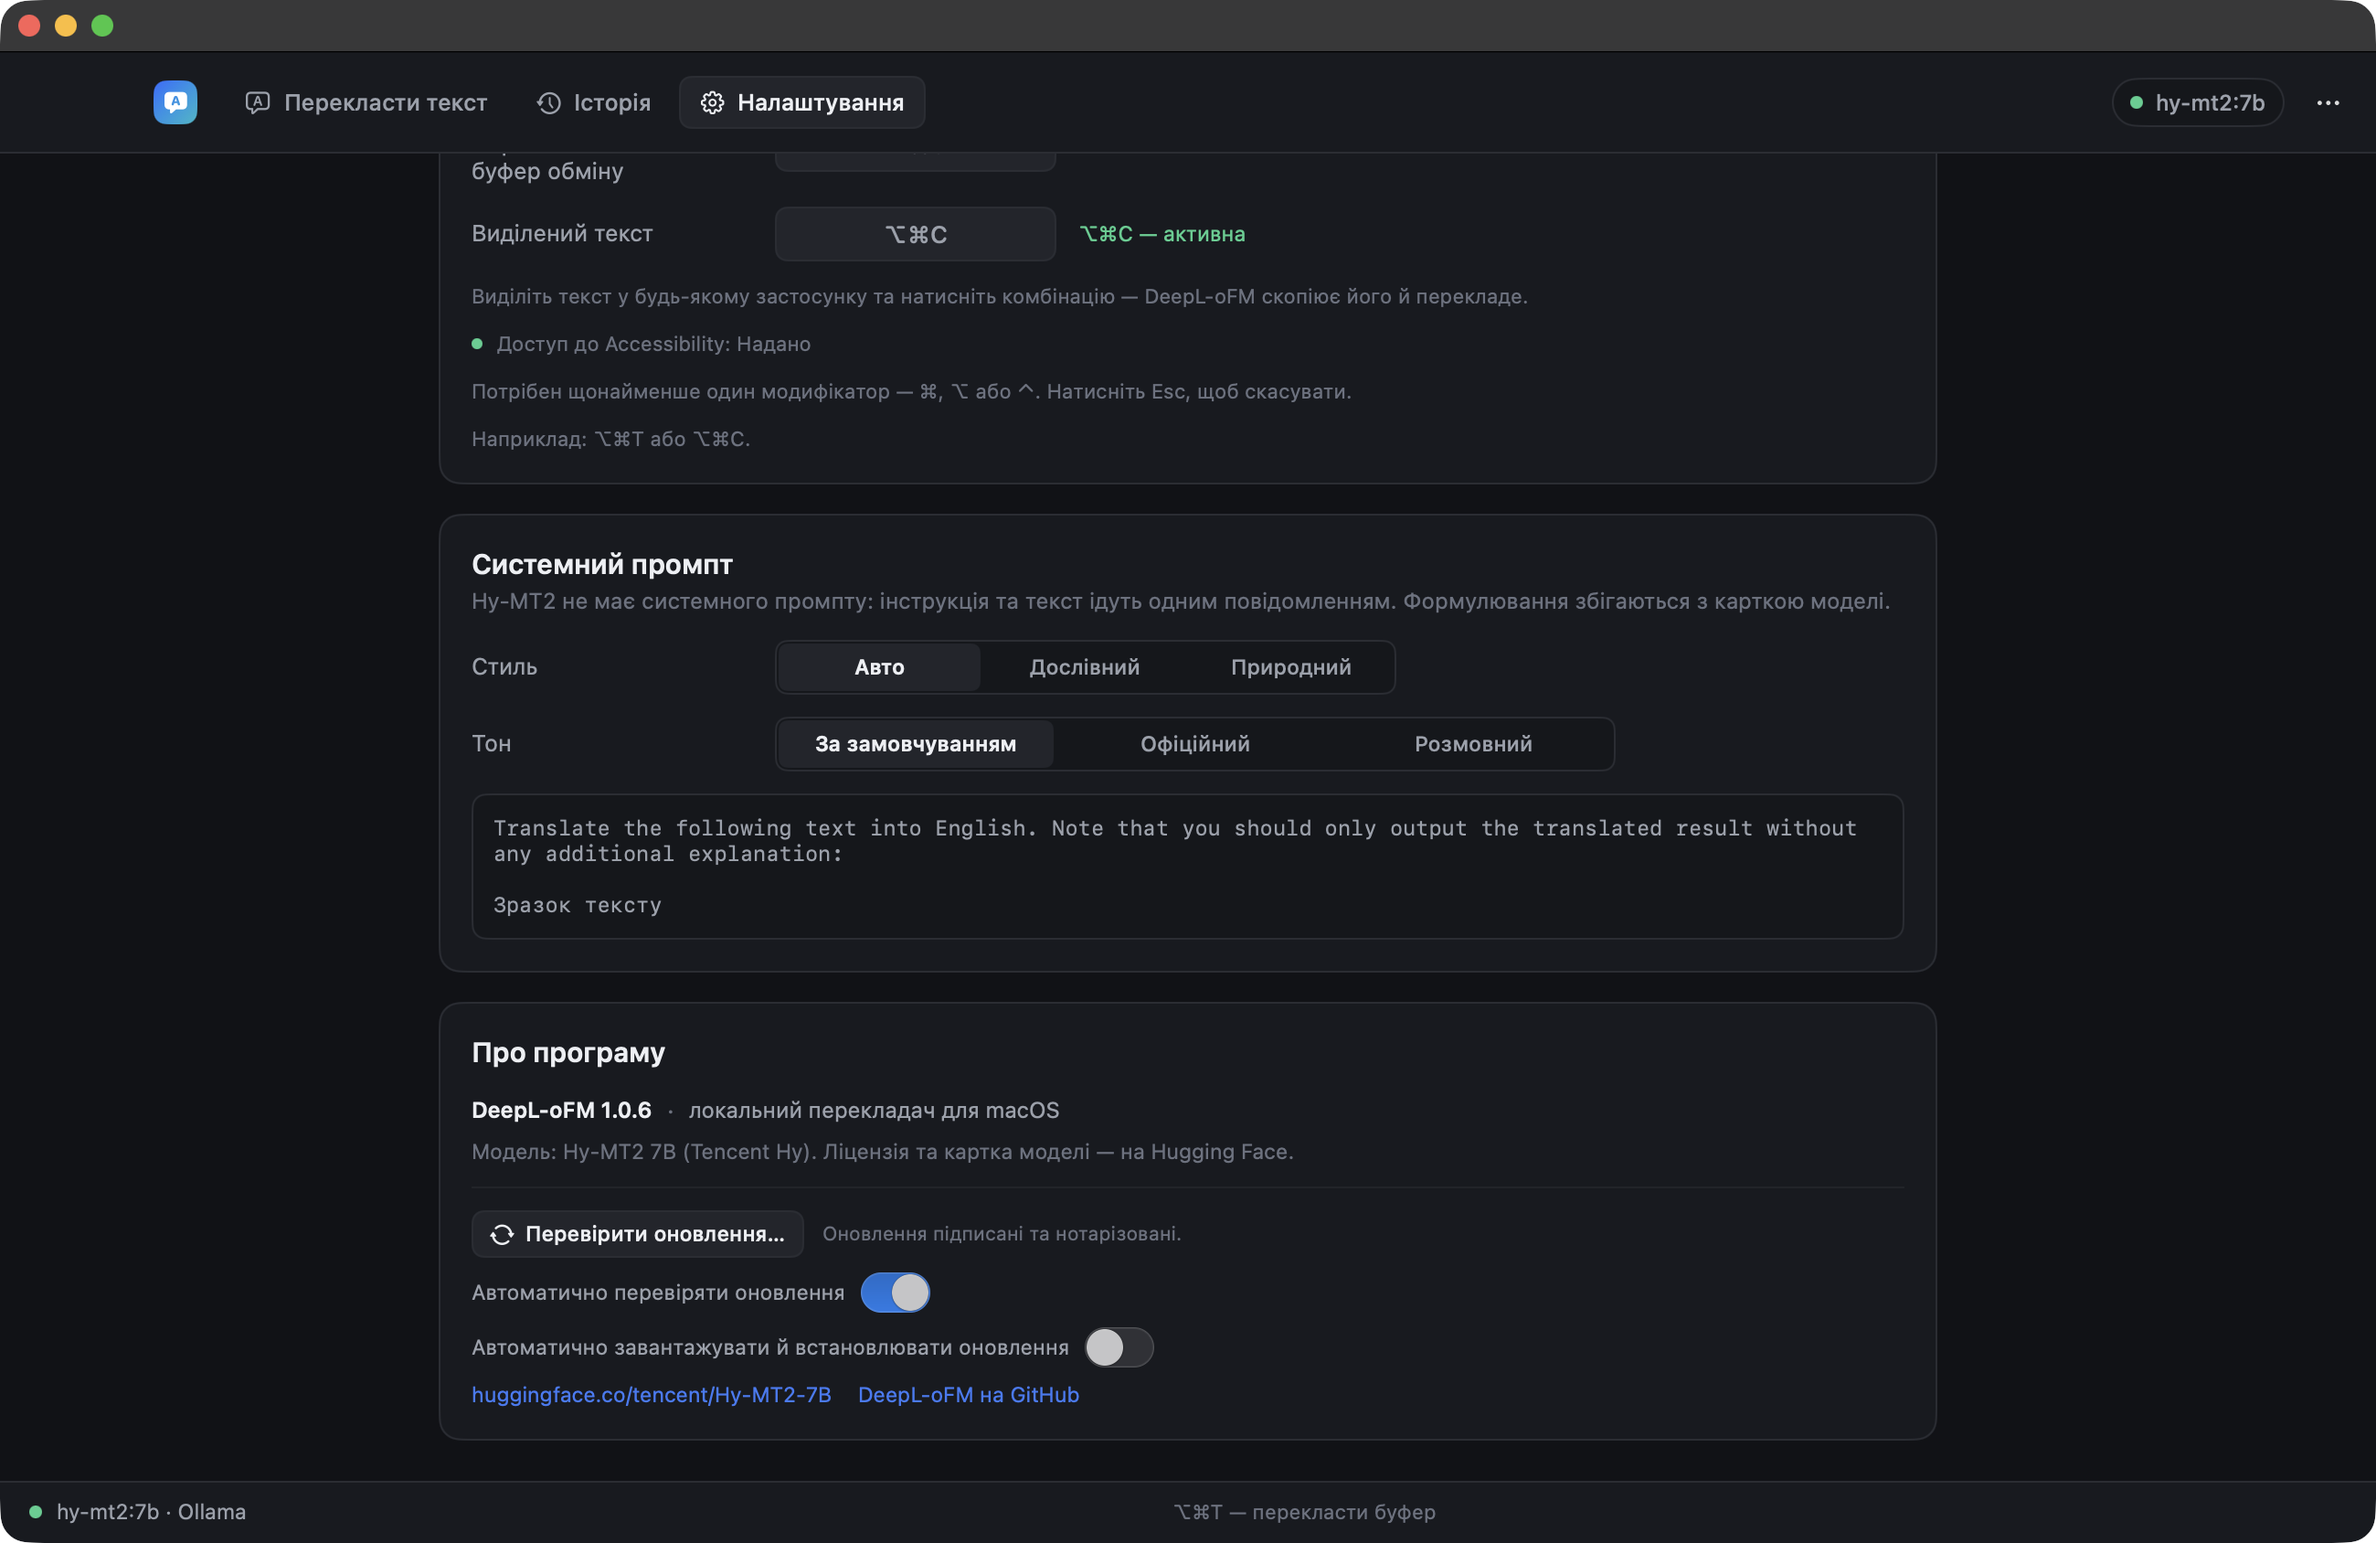
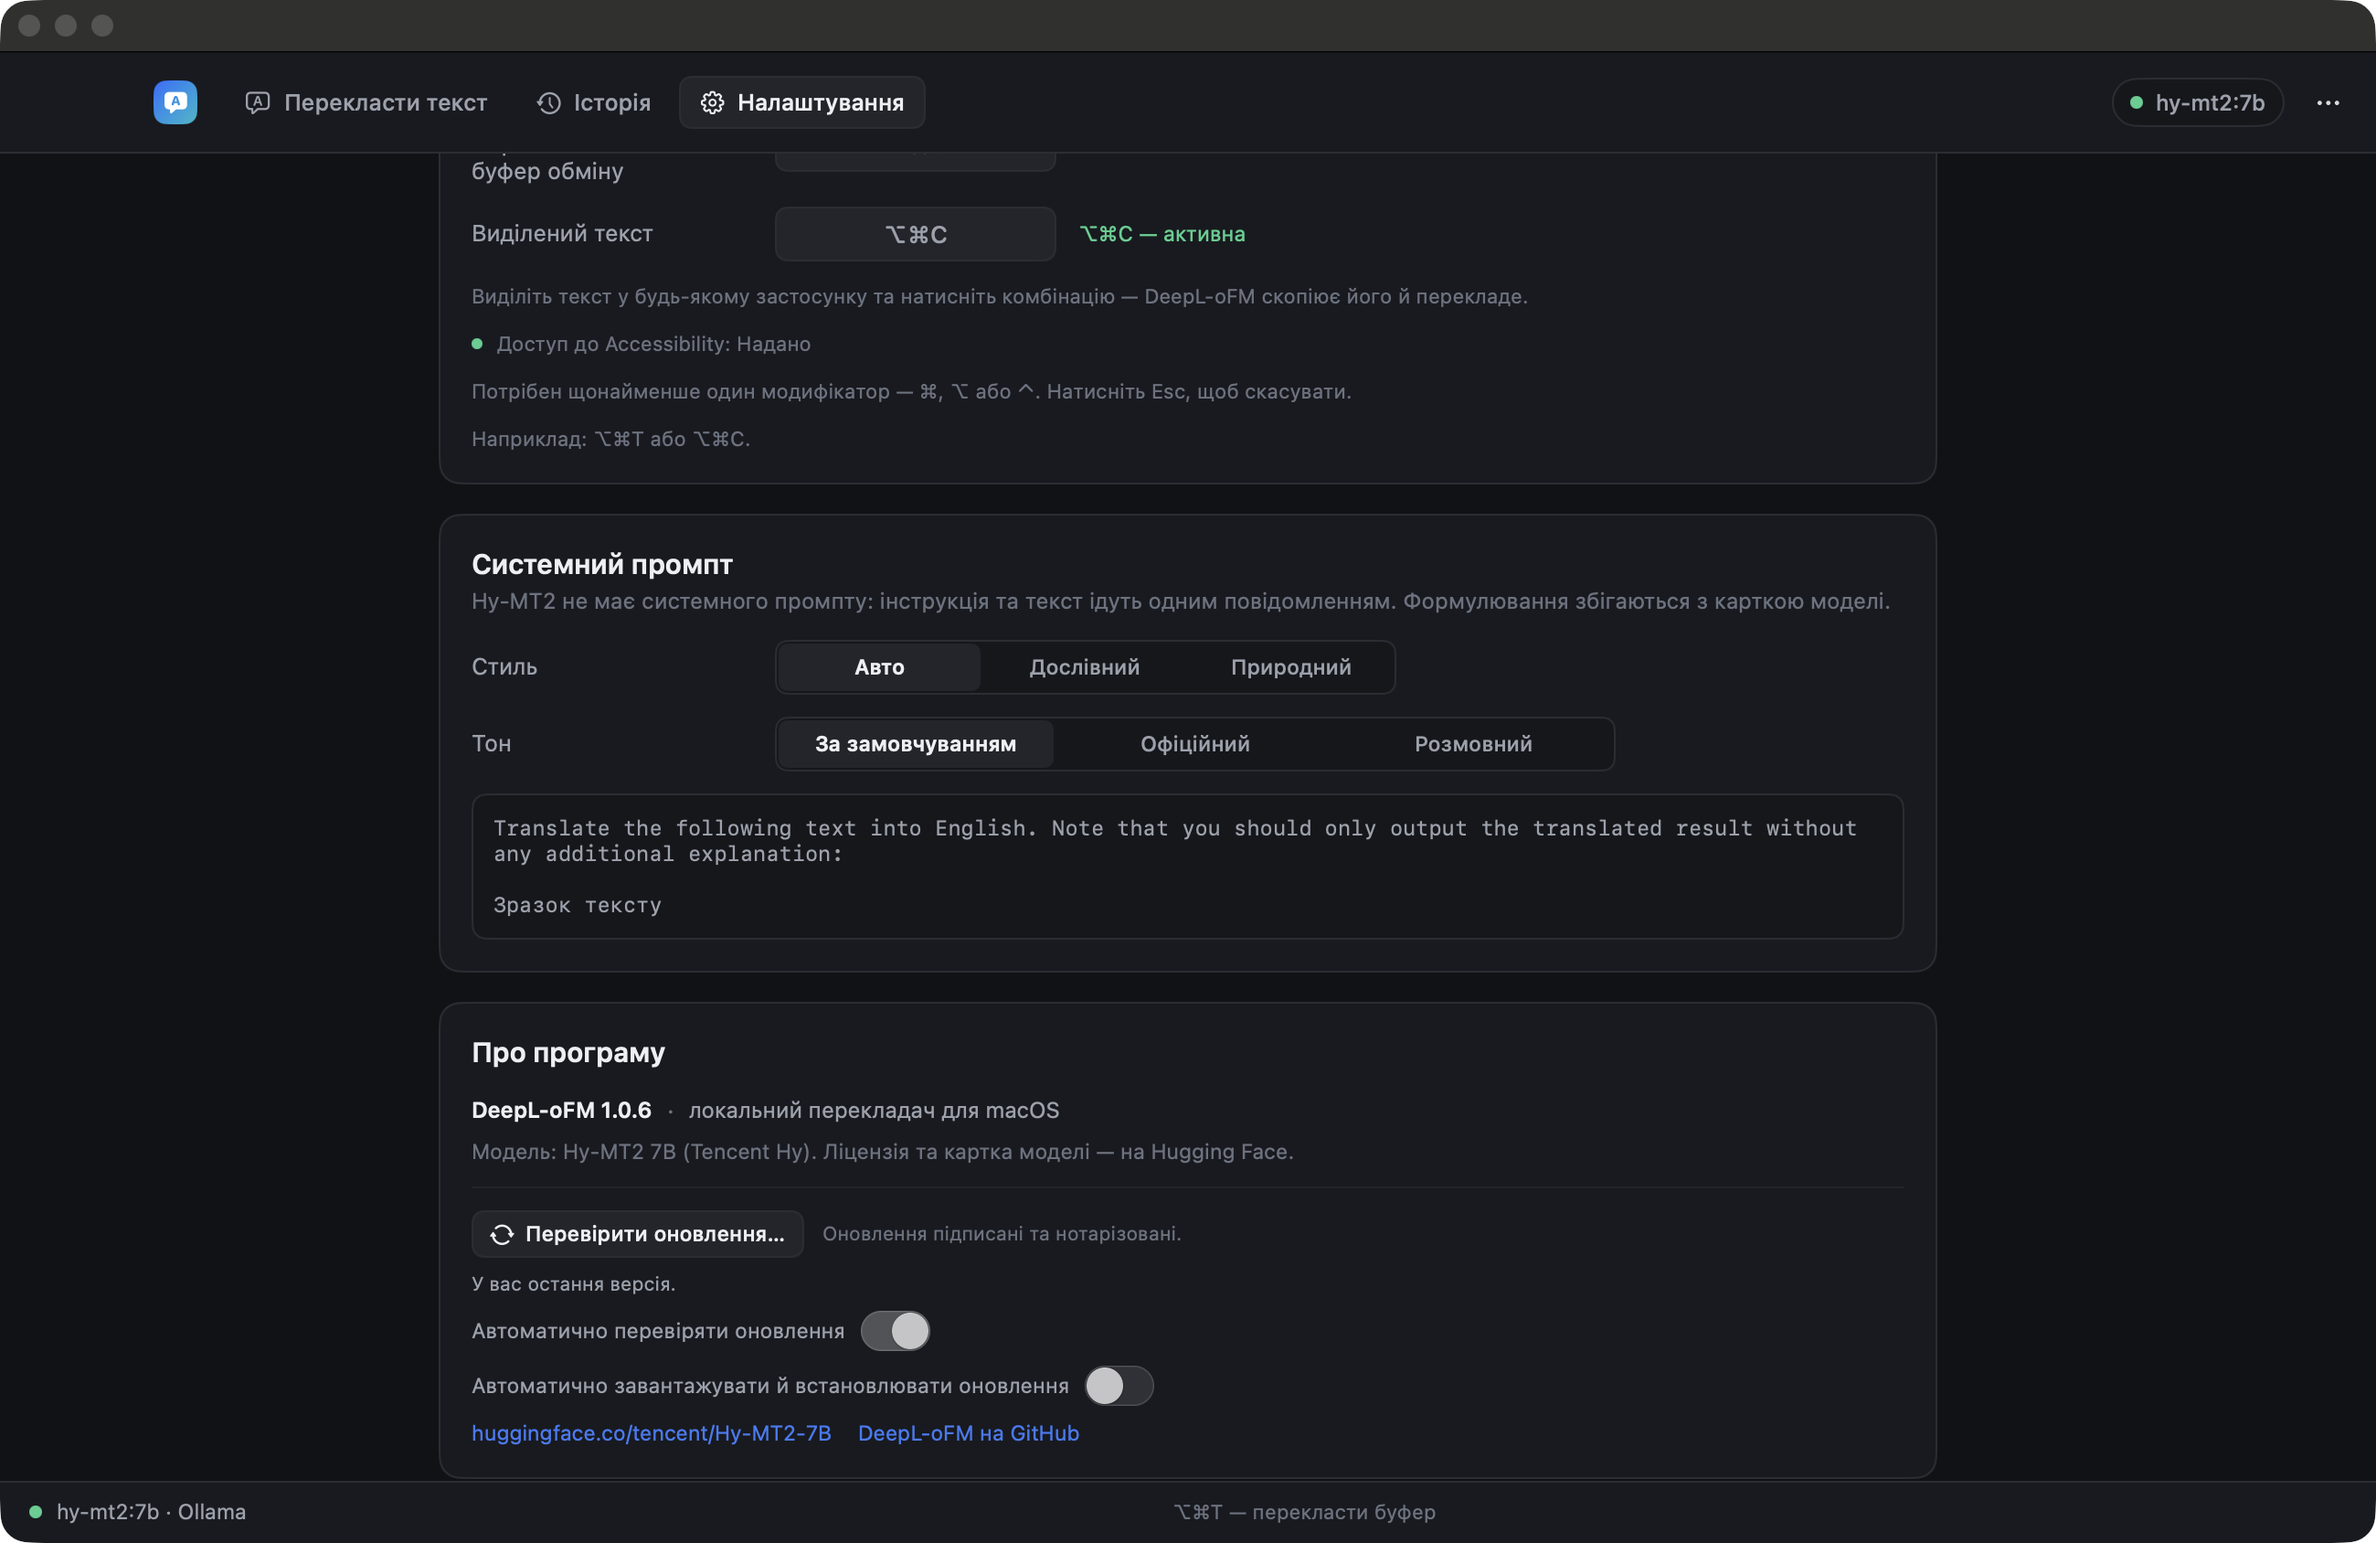
fix: show update status and enable daily checks by default
- reflect Sparkle automatic-check state through AppStorage toggles
- display up-to-date / update-available / failure status in About
- seed SUEnableAutomaticChecks once without overriding a user choice
- regenerate signed appcast for the final 1.0.6 DMG

Changed region(s): [[0.1869, 0.8009, 0.4985, 0.955], [0.0, 0.0, 0.0623, 0.0308]]

diff --git a/Sources/HyMT/AppState.swift b/Sources/HyMT/AppState.swift
@@ -91,12 +91,13 @@ final class AppState: NSObject, ObservableObject {
     @Published var modelsLoading: Bool = false
     @Published var modelsError: String?
     @Published var showCatalog: Bool = false
+    @Published var updateStatus: String?
 
     // MARK: Dependencies
 
     let settings: AppSettings
     let history: HistoryStore
-    let updaterController: SPUStandardUpdaterController
+    private(set) var updaterController: SPUStandardUpdaterController!
 
     private let translator = TranslationService()
     private let hotKeys = HotKeyManager()
@@ -119,16 +120,22 @@ final class AppState: NSObject, ObservableObject {
         let settings = AppSettings()
         self.settings = settings
         self.history = HistoryStore()
-        self.updaterController = SPUStandardUpdaterController(
-            startingUpdater: true,
-            updaterDelegate: nil,
-            userDriverDelegate: nil
-        )
         self.sourceLanguage = Language.with(code: settings.lastSourceCode) ?? .auto
         self.targetLanguage = Language.with(code: settings.lastTargetCode) ?? Language.with(code: "en") ?? .auto
         self.style = settings.lastStyle
         self.tone = settings.lastTone
         super.init()
+        updaterController = SPUStandardUpdaterController(
+            startingUpdater: true,
+            updaterDelegate: self,
+            userDriverDelegate: nil
+        )
+        // SUEnableAutomaticChecks in Info.plist only suppresses the first-run
+        // permission prompt. Seed the user default once so daily checks are on
+        // by default; an explicit user choice is never overwritten.
+        if UserDefaults.standard.object(forKey: "SUEnableAutomaticChecks") == nil {
+            updaterController.updater.automaticallyChecksForUpdates = true
+        }
         configureBindings()
         registerHotKeys()
         if settings.showInMenuBar { installStatusItem() }
@@ -141,6 +148,18 @@ final class AppState: NSObject, ObservableObject {
         didBootstrap = true
         debugLog("accessibility trusted: \(AXIsProcessTrusted())")
         checkConnection()
+
+        // Sparkle starts on the next run loop; refresh once so the update
+        // toggles show the real state instead of their pre-start defaults.
+        DispatchQueue.main.asyncAfter(deadline: .now() + 1.5) { [weak self] in
+            guard let self else { return }
+            self.debugLog(
+                "updates: automaticChecks=\(self.updaterController.updater.automaticallyChecksForUpdates) "
+                + "automaticDownloads=\(self.updaterController.updater.automaticallyDownloadsUpdates) "
+                + "default=\(UserDefaults.standard.bool(forKey: "SUEnableAutomaticChecks"))"
+            )
+            self.objectWillChange.send()
+        }
 
         let arguments = CommandLine.arguments
         if let index = arguments.firstIndex(of: "--prefill"), arguments.count > index + 1 {
@@ -159,7 +178,9 @@ final class AppState: NSObject, ObservableObject {
             showCatalog = true
         }
         if arguments.contains("--check-updates") {
-            checkForUpdates()
+            DispatchQueue.main.asyncAfter(deadline: .now() + 2.0) { [weak self] in
+                self?.checkForUpdates()
+            }
         }
         if let index = arguments.firstIndex(of: "--tab"), arguments.count > index + 1 {
             switch arguments[index + 1] {
@@ -442,6 +463,7 @@ final class AppState: NSObject, ObservableObject {
     // MARK: - Updates
 
     func checkForUpdates() {
+        updateStatus = L10n.t("Checking for updates…", settings.interfaceLanguage)
         updaterController.checkForUpdates(nil)
     }
 
@@ -849,5 +871,27 @@ final class AppState: NSObject, ObservableObject {
 
     @objc private func menuQuit() {
         NSApp.terminate(nil)
+    }
+}
+
+extension AppState: SPUUpdaterDelegate {
+    func updater(_ updater: SPUUpdater, didFindValidUpdate item: SUAppcastItem) {
+        updateStatus = L10n.format(
+            "Update available: %@",
+            settings.interfaceLanguage,
+            item.displayVersionString
+        )
+    }
+
+    func updaterDidNotFindUpdate(_ updater: SPUUpdater) {
+        updateStatus = L10n.t("You're up to date.", settings.interfaceLanguage)
+    }
+
+    func updater(_ updater: SPUUpdater, didAbortWithError error: Error) {
+        updateStatus = L10n.format(
+            "Update check failed: %@",
+            settings.interfaceLanguage,
+            error.localizedDescription
+        )
     }
 }

diff --git a/Sources/HyMT/Views/SettingsView.swift b/Sources/HyMT/Views/SettingsView.swift
@@ -6,6 +6,8 @@ struct SettingsView: View {
     @EnvironmentObject private var app: AppState
     @ObservedObject var settings: AppSettings
     @State private var modelFilter = ""
+    @AppStorage("SUEnableAutomaticChecks") private var automaticChecks = true
+    @AppStorage("SUAutomaticallyUpdate") private var automaticDownloads = false
 
     private var language: AppLanguage { settings.interfaceLanguage }
 
@@ -633,27 +635,34 @@ struct SettingsView: View {
                         .foregroundStyle(Theme.tertiary)
                 }
 
+                if let status = app.updateStatus {
+                    Text(status)
+                        .font(.system(size: 10.5))
+                        .foregroundStyle(Theme.secondary)
+                        .fixedSize(horizontal: false, vertical: true)
+                }
+
                 Toggle(
                     L10n.t("Automatically check for updates", language),
-                    isOn: Binding(
-                        get: { app.automaticallyChecksForUpdates },
-                        set: { app.automaticallyChecksForUpdates = $0 }
-                    )
+                    isOn: $automaticChecks
                 )
                 .toggleStyle(.switch)
                 .font(.system(size: 11.5))
                 .foregroundStyle(Theme.secondary)
+                .onChange(of: automaticChecks) { _, value in
+                    app.automaticallyChecksForUpdates = value
+                }
 
                 Toggle(
                     L10n.t("Automatically download and install updates", language),
-                    isOn: Binding(
-                        get: { app.automaticallyDownloadsUpdates },
-                        set: { app.automaticallyDownloadsUpdates = $0 }
-                    )
+                    isOn: $automaticDownloads
                 )
                 .toggleStyle(.switch)
                 .font(.system(size: 11.5))
                 .foregroundStyle(Theme.secondary)
+                .onChange(of: automaticDownloads) { _, value in
+                    app.automaticallyDownloadsUpdates = value
+                }
 
                 HStack(spacing: 14) {
                     Link("huggingface.co/tencent/Hy-MT2-7B", destination: URL(string: "https://huggingface.co/tencent/Hy-MT2-7B")!)

diff --git a/Sources/HyMT/Support/Localization.swift b/Sources/HyMT/Support/Localization.swift
@@ -225,6 +225,10 @@ enum L10n {
         "local translator for macOS": "локальний перекладач для macOS",
         "Model: Hy-MT2 7B (Tencent Hy). License and model card on Hugging Face.": "Модель: Hy-MT2 7B (Tencent Hy). Ліцензія та картка моделі — на Hugging Face.",
         "Check for Updates…": "Перевірити оновлення…",
+        "Checking for updates…": "Перевіряю оновлення…",
+        "You're up to date.": "У вас остання версія.",
+        "Update available: %@": "Доступне оновлення: %@",
+        "Update check failed: %@": "Не вдалося перевірити оновлення: %@",
         "Automatically check for updates": "Автоматично перевіряти оновлення",
         "Automatically download and install updates": "Автоматично завантажувати й встановлювати оновлення",
         "Updates are signed and notarized.": "Оновлення підписані та нотарізовані.",
@@ -465,6 +469,10 @@ enum L10n {
         "local translator for macOS": "локальный переводчик для macOS",
         "Model: Hy-MT2 7B (Tencent Hy). License and model card on Hugging Face.": "Модель: Hy-MT2 7B (Tencent Hy). Лицензия и карточка модели — на Hugging Face.",
         "Check for Updates…": "Проверить обновления…",
+        "Checking for updates…": "Проверяю обновления…",
+        "You're up to date.": "У вас последняя версия.",
+        "Update available: %@": "Доступно обновление: %@",
+        "Update check failed: %@": "Не удалось проверить обновления: %@",
         "Automatically check for updates": "Автоматически проверять обновления",
         "Automatically download and install updates": "Автоматически загружать и устанавливать обновления",
         "Updates are signed and notarized.": "Обновления подписаны и нотаризованы.",
